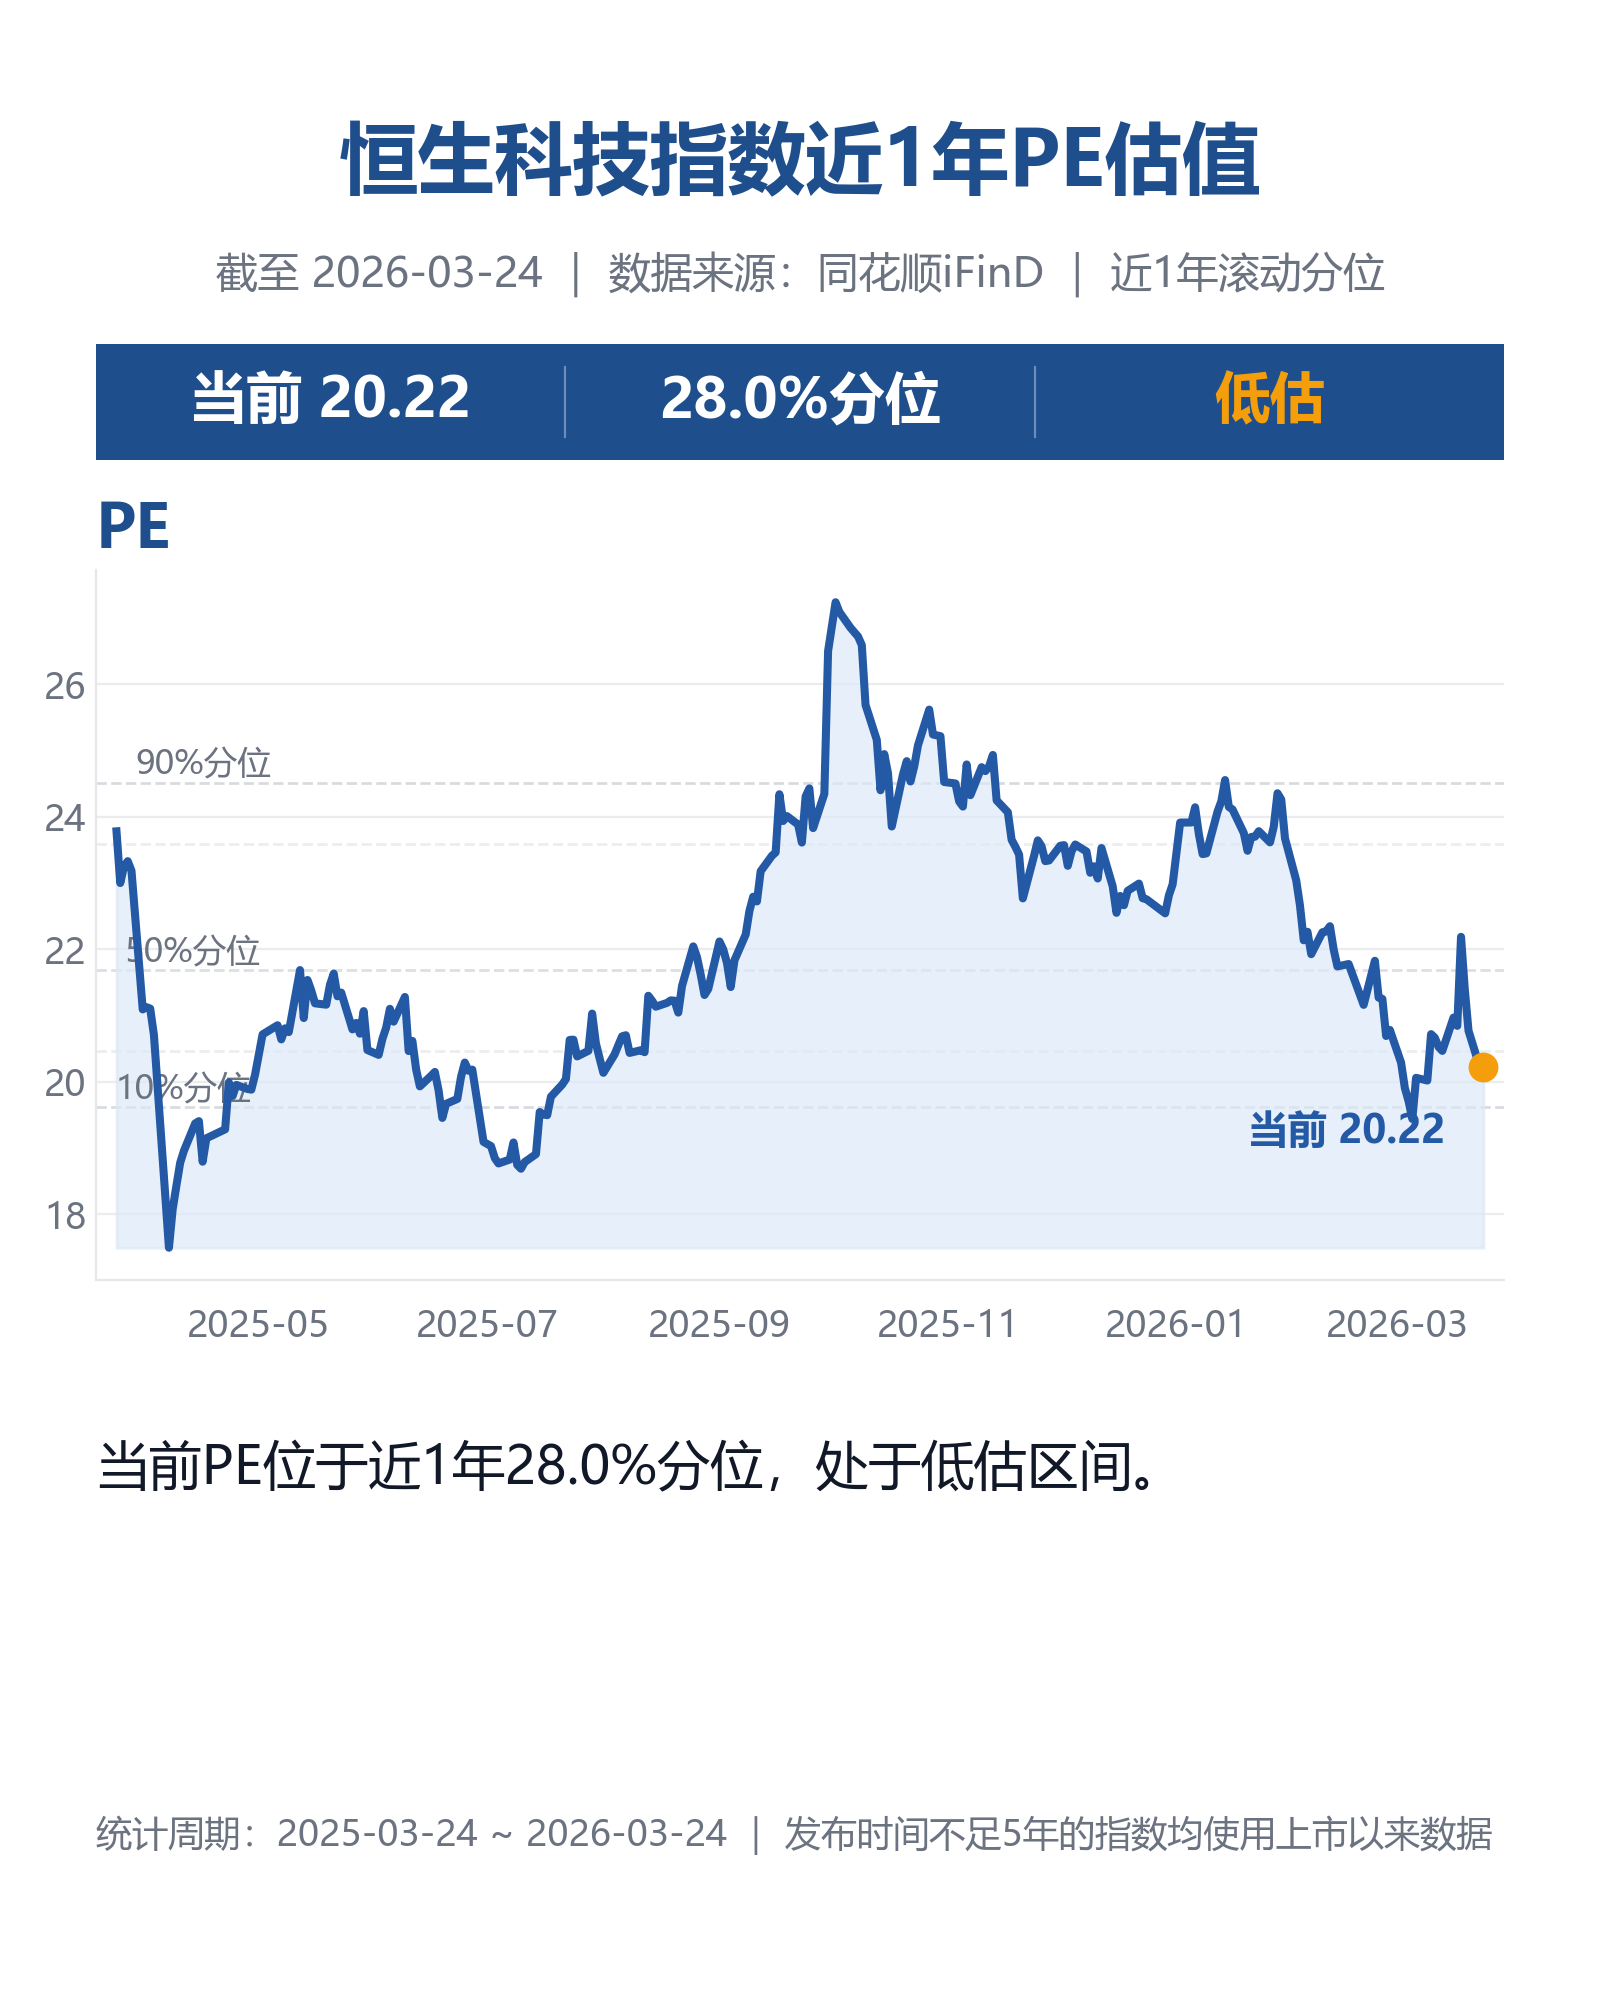
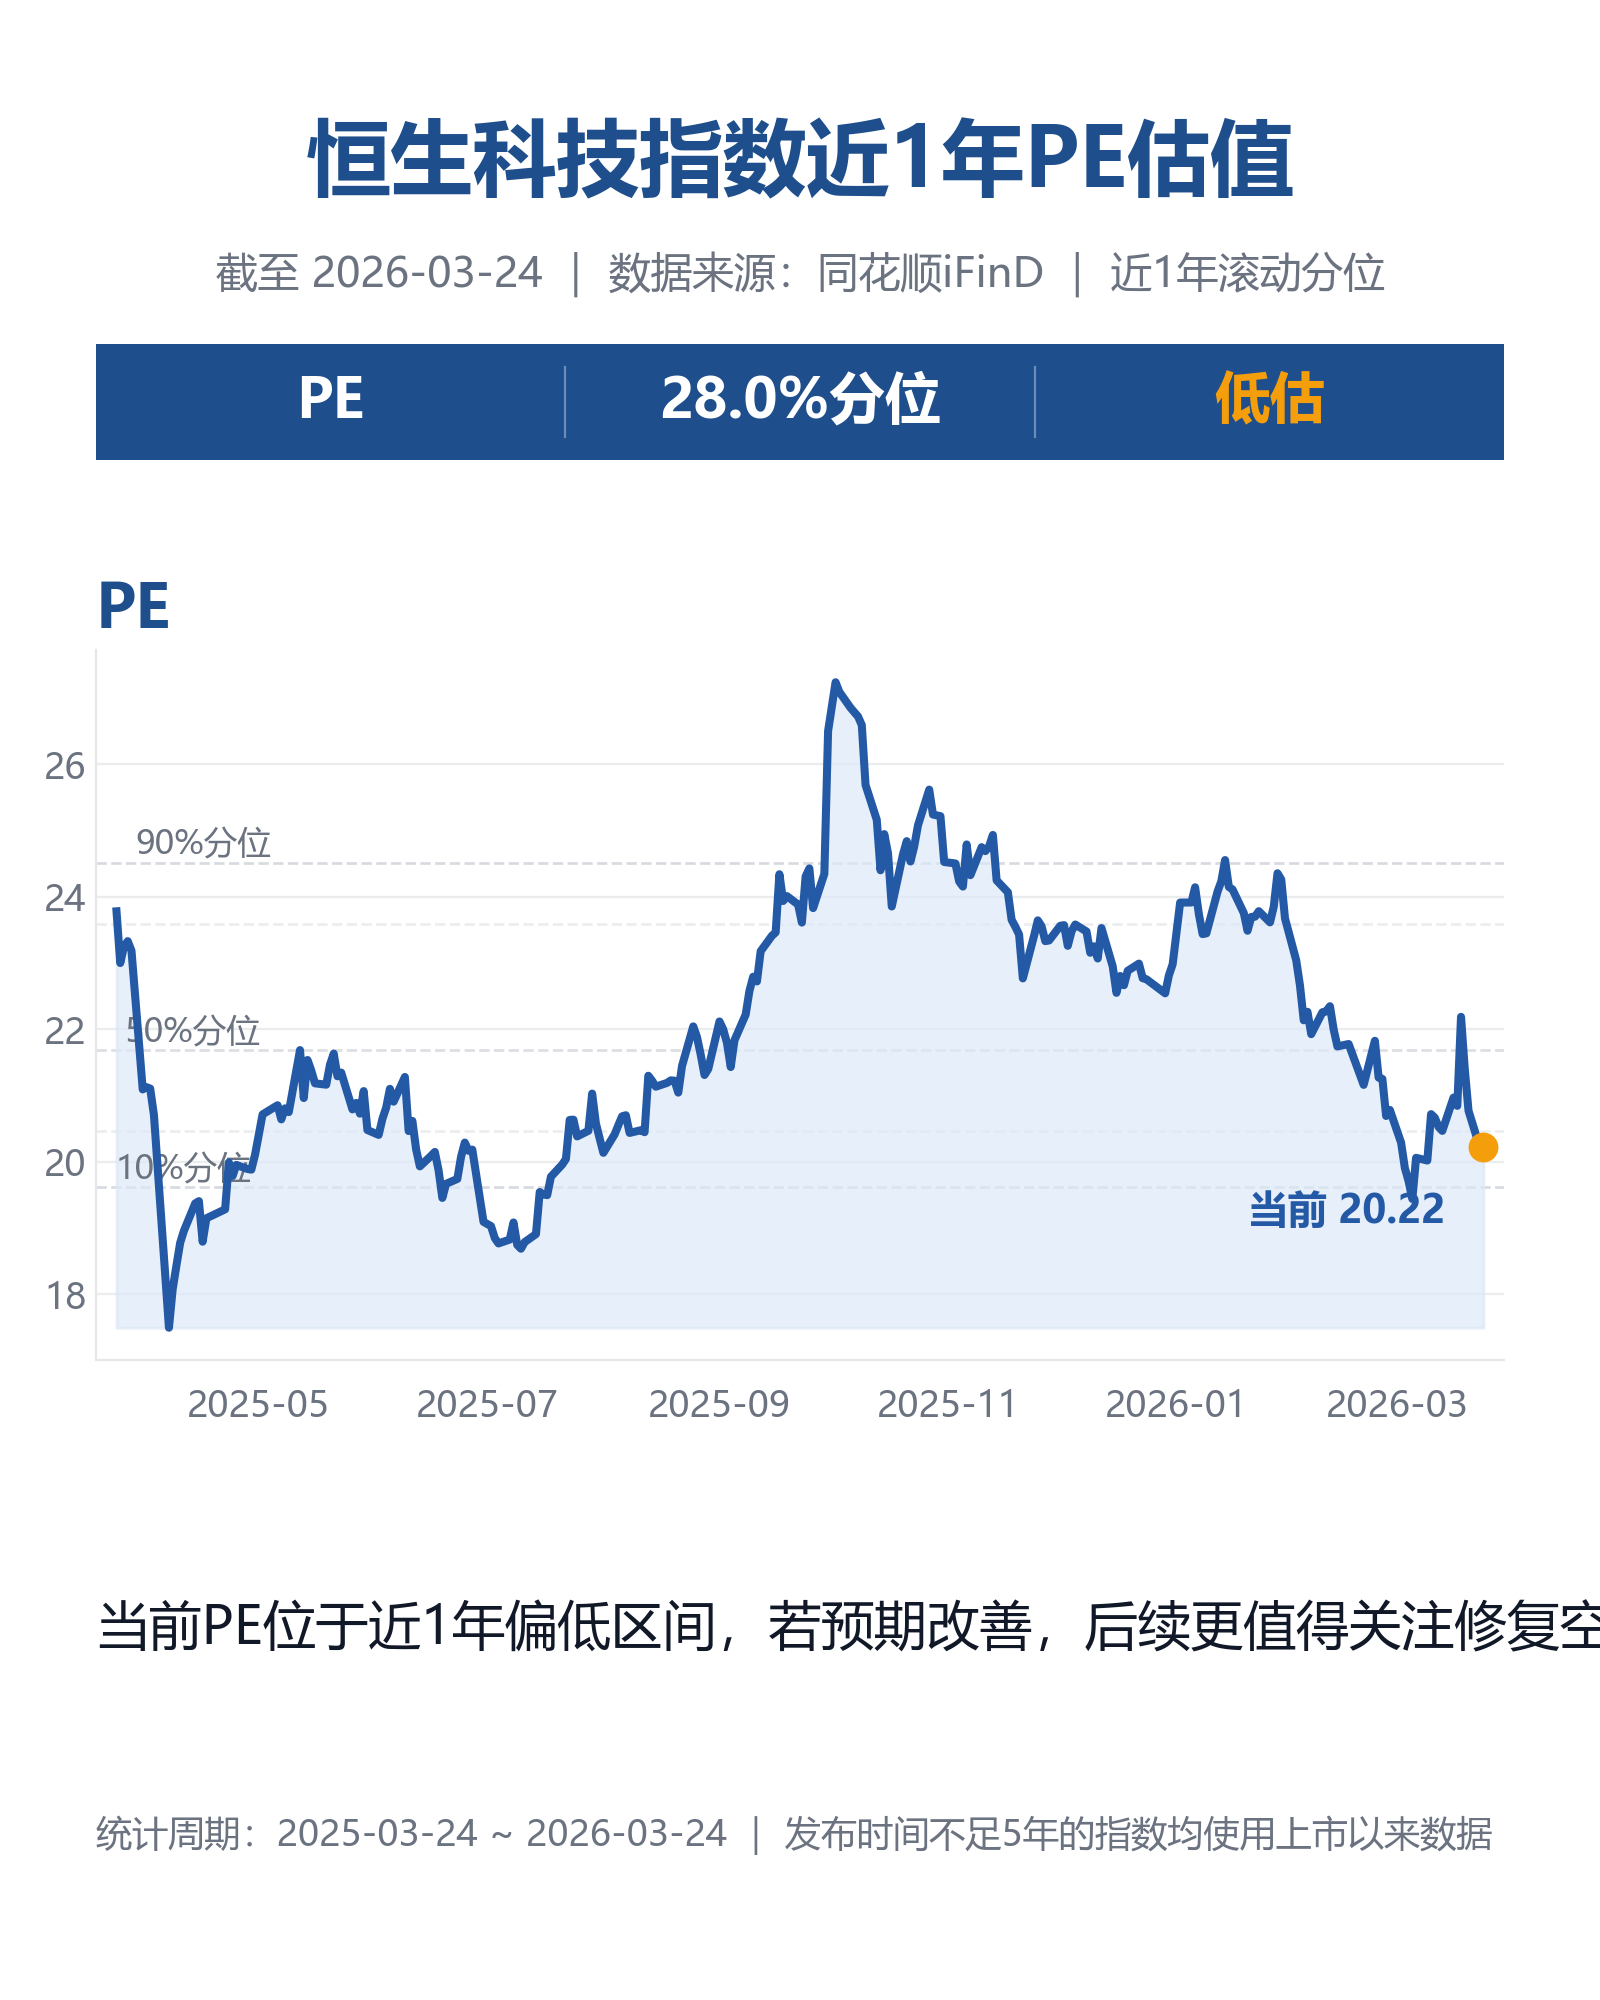
20260324 2210 update

diff --git a/core/exporter.py b/core/exporter.py
@@ -61,7 +61,7 @@ def _render_single_summary_bar(ax, indicator_key: str, indicator_name: str, metr
     _prepare_summary_axis(ax)
 
     if indicator_key in {"pe", "pb"}:
-        segments = [f"当前 {metrics['current_value']:.2f}", f"{metrics['position_pct']:.1f}%分位", plotter.valuation_status(metrics["position_pct"])]
+        segments = [indicator_name, f"{metrics['position_pct']:.1f}%分位", plotter.valuation_status(metrics["position_pct"])]
         accent_indices = {2}
         dividers = [1 / 3, 2 / 3]
         centers = [1 / 6, 0.5, 5 / 6]
@@ -105,29 +105,57 @@ def _render_dual_dividers(fig):
     y_positions = [
         DUAL_REGIONS["summary"][1] + DUAL_REGIONS["summary"][3] / 2,
         (DUAL_REGIONS["pe_chart"][1] + (DUAL_REGIONS["pb_chart"][1] + DUAL_REGIONS["pb_chart"][3])) / 2,
-        (DUAL_REGIONS["pb_chart"][1] + (DUAL_REGIONS["conclusion"][1] + DUAL_REGIONS["conclusion"][3])) / 2,
-        (DUAL_REGIONS["conclusion"][1] + (DUAL_REGIONS["footer"][1] + DUAL_REGIONS["footer"][3])) / 2,
+        (DUAL_REGIONS["pb_chart"][1] + DUAL_REGIONS["footer"][1] + DUAL_REGIONS["footer"][3]) / 2,
     ]
 
     for y in y_positions:
         fig.add_artist(
-            Line2D([left, right], [y, y], transform=fig.transFigure, color=DIVIDER["color"], alpha=DIVIDER["alpha"], linewidth=DIVIDER["line_width"], zorder=0)
+            Line2D(
+                [left, right],
+                [y, y],
+                transform=fig.transFigure,
+                color=DIVIDER["color"],
+                alpha=DIVIDER["alpha"],
+                linewidth=DIVIDER["line_width"],
+                zorder=0,
+            )
         )
+
+
+def _single_close_conclusion(window_label: str, metrics: dict) -> str:
+    position_pct = metrics["position_pct"]
+    if position_pct < 20:
+        lead = f"当前点位已靠近近{window_label}区间下沿，更反映阶段位置偏弱，不直接代表估值高低。"
+    elif position_pct < 40:
+        lead = f"当前点位位于近{window_label}偏低区域，更适合作为阶段位置观察，而不是单独判断便宜或昂贵。"
+    elif position_pct <= 60:
+        lead = f"当前点位处于近{window_label}区间中部，阶段位置相对均衡，更适合继续跟踪方向选择。"
+    elif position_pct <= 80:
+        lead = f"当前点位已回到近{window_label}偏高区域，说明阶段位置已有修复，但位置本身不等同于高估。"
+    else:
+        lead = f"当前点位接近近{window_label}区间上沿，更多体现阶段位置偏强，仍需与估值判断分开看待。"
+
+    tail = f"近{window_label}观察区间约为{metrics['min_value']:.2f}-{metrics['max_value']:.2f}。"
+    return lead + tail
+
+
+def _single_valuation_conclusion(indicator_name: str, window_label: str, metrics: dict) -> str:
+    position_pct = metrics["position_pct"]
+    if position_pct < 10:
+        return f"当前{indicator_name}已进入近{window_label}极低区间，市场定价明显偏谨慎，后续更值得跟踪修复弹性。"
+    if position_pct < 30:
+        return f"当前{indicator_name}位于近{window_label}偏低区间，若预期改善，后续更值得关注修复空间。"
+    if position_pct <= 70:
+        return f"当前{indicator_name}仍处于近{window_label}中低至中性区间，市场定价相对克制，更应观察修复而非扩张。"
+    if position_pct <= 90:
+        return f"当前{indicator_name}已进入近{window_label}偏高区间，后续更需要观察业绩兑现对估值的消化能力。"
+    return f"当前{indicator_name}处于近{window_label}较高区间，后续更应关注预期兑现与估值压缩的平衡。"
 
 
 def _single_conclusion(indicator_key: str, indicator_name: str, metrics: dict, window_label: str) -> str:
     if indicator_key in {"pe", "pb"}:
-        return f"当前{indicator_name}位于近{window_label}{metrics['position_pct']:.1f}%分位，处于{plotter.valuation_status(metrics['position_pct'])}区间。"
-    return (
-        f"当前点位位于近{window_label}区间的{metrics['position_pct']:.1f}%位置，"
-        f"当前观察区间为{metrics['min_value']:.2f}-{metrics['max_value']:.2f}。"
-    )
-
-
-def _dual_conclusion(pe_metrics: dict, pb_metrics: dict) -> str:
-    pe_status = plotter.valuation_status(pe_metrics["position_pct"])
-    pb_status = plotter.valuation_status(pb_metrics["position_pct"])
-    return f"PE处于{pe_status}区间，PB处于{pb_status}区间，整体估值水平以中期分位跟踪为主。"
+        return _single_valuation_conclusion(indicator_name, window_label, metrics)
+    return _single_close_conclusion(window_label, metrics)
 
 
 def _dual_chart_summary_segments(metrics: dict):
@@ -173,9 +201,19 @@ def export_single_indicator(
         chart_title=indicator_name,
         current_label=f"当前 {metrics['current_value']:.2f}",
         with_quantiles=indicator_key in {"pe", "pb"},
+        adaptive_left_margin=True,
     )
 
-    axes["conclusion"].text(0.0, 0.5, _single_conclusion(indicator_key, indicator_name, metrics, window_label), ha="left", va="center", fontsize=FONT_SIZE["conclusion"], color=COLORS["text"])
+    axes["conclusion"].text(
+        0.0,
+        0.5,
+        _single_conclusion(indicator_key, indicator_name, metrics, window_label),
+        ha="left",
+        va="center",
+        fontsize=FONT_SIZE["conclusion"],
+        color=COLORS["text"],
+        wrap=True,
+    )
     _render_footer(axes["footer"], metrics["start_date"], metrics["end_date"])
 
     fig.savefig(output_path, facecolor=fig.get_facecolor())
@@ -227,8 +265,6 @@ def export_pe_pb_combo(
         chart_summary_accent_indices=pb_accent,
     )
 
-    axes["conclusion"].text(0.0, 0.5, _dual_conclusion(pe_metrics, pb_metrics), ha="left", va="center", fontsize=FONT_SIZE["conclusion"], color=COLORS["text"])
-
     start_date = max(pe_metrics["start_date"], pb_metrics["start_date"])
     end_date = min(pe_metrics["end_date"], pb_metrics["end_date"])
     _render_footer(axes["footer"], start_date, end_date)
@@ -236,4 +272,3 @@ def export_pe_pb_combo(
     fig.savefig(output_path, facecolor=fig.get_facecolor())
     plt.close(fig)
     return output_path
-

diff --git a/core/plotter.py b/core/plotter.py
@@ -6,7 +6,7 @@ import math
 import matplotlib.dates as mdates
 import pandas as pd
 
-from core.style import CHART, COLORS, FONT_SIZE, VALUATION_QUANTILES
+from core.style import CHART, COLORS, FONT_SIZE, SINGLE_LAYOUT, VALUATION_QUANTILES
 
 
 def valuation_status(position_pct: float) -> str:
@@ -79,6 +79,36 @@ def _draw_quantile_lines(ax, values: pd.Series):
                 va="bottom",
             )
             label_idx += 1
+
+
+def _adapt_single_chart_left_margin(ax):
+    """Increase the single-chart left gutter only when y tick labels are too close to the page edge."""
+    fig = ax.figure
+    fig.canvas.draw()
+    renderer = fig.canvas.get_renderer()
+
+    labels = [label for label in ax.get_yticklabels() if label.get_text().strip()]
+    if not labels:
+        return
+
+    min_left_px = min(label.get_window_extent(renderer=renderer).x0 for label in labels)
+    fig_width_px = fig.bbox.width
+    target_left_px = fig_width_px * SINGLE_LAYOUT["chart_safe_left"]
+
+    if min_left_px >= target_left_px:
+        return
+
+    shift_px = (target_left_px - min_left_px) + SINGLE_LAYOUT["chart_label_padding_px"]
+    shift_frac = min(shift_px / fig_width_px, SINGLE_LAYOUT["chart_max_left_shift"])
+
+    pos = ax.get_position()
+    max_shift_frac = max(pos.width - SINGLE_LAYOUT["chart_min_width"], 0.0)
+    shift_frac = min(shift_frac, max_shift_frac)
+    if shift_frac <= 0:
+        return
+
+    ax.set_position([pos.x0 + shift_frac, pos.y0, pos.width - shift_frac, pos.height])
+    fig.canvas.draw()
 
 
 def _point_to_segment_distance(px, py, ax, ay, bx, by):
@@ -228,7 +258,17 @@ def _draw_chart_summary(ax, summary_segments=None, accent_indices=None):
 
     for i in range(1, len(positions)):
         divider_x = (positions[i - 1] + positions[i]) / 2
-        ax.text(divider_x, CHART["dual_chart_summary_y"], "|", transform=ax.transAxes, ha="center", va="center", fontsize=FONT_SIZE["dual_chart_summary"], color=COLORS["muted"], clip_on=False)
+        ax.text(
+            divider_x,
+            CHART["dual_chart_summary_y"],
+            "|",
+            transform=ax.transAxes,
+            ha="center",
+            va="center",
+            fontsize=FONT_SIZE["dual_chart_summary"],
+            color=COLORS["muted"],
+            clip_on=False,
+        )
 
     for idx, (xp, text) in enumerate(zip(positions, summary_segments)):
         ax.text(
@@ -253,6 +293,7 @@ def plot_indicator_chart(
     with_quantiles: bool,
     chart_summary_segments=None,
     chart_summary_accent_indices=None,
+    adaptive_left_margin: bool = False,
 ) -> None:
     x = pd.to_datetime(df["date"])
     y = pd.to_numeric(df["value"], errors="coerce")
@@ -265,9 +306,13 @@ def plot_indicator_chart(
 
     ax.fill_between(x, y, y2=float(y.min()), color=COLORS["fill"], alpha=CHART["fill_alpha"], zorder=2)
     ax.plot(x, y, color=COLORS["line"], linewidth=CHART["line_width"], zorder=3)
+    ax.margins(x=CHART["x_margin"])
+
+    if adaptive_left_margin:
+        _adapt_single_chart_left_margin(ax)
+
     _draw_current_marker(ax, x, y, current_label, with_quantiles)
 
     title_pad = CHART["dual_chart_title_pad"] if chart_summary_segments else 8
     ax.set_title(chart_title, loc="left", fontsize=FONT_SIZE["section"], color=COLORS["primary"], weight="bold", pad=title_pad)
     _draw_chart_summary(ax, chart_summary_segments, chart_summary_accent_indices)
-    ax.margins(x=CHART["x_margin"])

diff --git a/core/templates.py b/core/templates.py
@@ -13,8 +13,8 @@ SINGLE_REGIONS = {
     "title": [PAGE["left"], 0.89, PAGE["content_width"], 0.055],
     "meta": [PAGE["left"], 0.848, PAGE["content_width"], 0.03],
     "summary": [PAGE["left"], 0.77, PAGE["content_width"], SUMMARY_BAR["height"]],
-    "chart": [PAGE["left"], 0.36, PAGE["content_width"], 0.355],
-    "conclusion": [PAGE["left"], 0.235, PAGE["content_width"], 0.06],
+    "chart": [PAGE["left"], 0.32, PAGE["content_width"], 0.355],
+    "conclusion": [PAGE["left"], 0.155, PAGE["content_width"], 0.06],
     "footer": [PAGE["left"], 0.065, PAGE["content_width"], 0.035],
 }
 
@@ -24,7 +24,6 @@ DUAL_REGIONS = {
     "summary": [PAGE["left"], DUAL_LAYOUT["top_divider_y"], PAGE["content_width"], DUAL_LAYOUT["top_divider_h"]],
     "pe_chart": [PAGE["left"], DUAL_LAYOUT["pe_chart_y"], PAGE["content_width"], DUAL_LAYOUT["pe_chart_h"]],
     "pb_chart": [PAGE["left"], DUAL_LAYOUT["pb_chart_y"], PAGE["content_width"], DUAL_LAYOUT["pb_chart_h"]],
-    "conclusion": [PAGE["left"], DUAL_LAYOUT["conclusion_y"], PAGE["content_width"], DUAL_LAYOUT["conclusion_h"]],
     "footer": [PAGE["left"], DUAL_LAYOUT["footer_y"], PAGE["content_width"], DUAL_LAYOUT["footer_h"]],
 }
 
@@ -60,7 +59,7 @@ def create_single_template():
 
 
 def create_dual_template():
-    """Create the dual-indicator page skeleton."""
+    """Create the dual-indicator page skeleton without a shared conclusion block."""
     fig = plt.figure(figsize=FIGSIZE, dpi=200, facecolor=COLORS["bg"])
     axes = {
         "title": _create_text_axis(fig, DUAL_REGIONS["title"]),
@@ -68,7 +67,6 @@ def create_dual_template():
         "summary": _create_text_axis(fig, DUAL_REGIONS["summary"]),
         "pe_chart": _create_chart_axis(fig, DUAL_REGIONS["pe_chart"]),
         "pb_chart": _create_chart_axis(fig, DUAL_REGIONS["pb_chart"]),
-        "conclusion": _create_text_axis(fig, DUAL_REGIONS["conclusion"]),
         "footer": _create_text_axis(fig, DUAL_REGIONS["footer"]),
     }
     return fig, axes

diff --git a/core/style.py b/core/style.py
@@ -28,10 +28,10 @@ FONT_FAMILY = [
 ]
 
 FONT_SIZE = {
-    "title": 28,
+    "title": 30,
     "meta": 15,
     "summary_main": 20,
-    "summary_sub": 10,
+    "summary_sub": 16,
     "section": 22,
     "chart_subtitle": 17,
     "current_label": 14,
@@ -54,6 +54,13 @@ SUMMARY_BAR = {
     "divider_width": 0.8,
 }
 
+SINGLE_LAYOUT = {
+    "chart_safe_left": 0.015,
+    "chart_label_padding_px": 12,
+    "chart_max_left_shift": 0.06,
+    "chart_min_width": 0.79,
+}
+
 CHART = {
     "fill_alpha": 0.7,
     "line_width": 2.9,
@@ -67,9 +74,9 @@ CHART = {
         "right_down": (14, -16),
         "left_down": (-14, -16),
     },
-    "dual_chart_summary_y": 1.045,
+    "dual_chart_summary_y": 1.04,
     "dual_chart_summary_gap": 0.27,
-    "dual_chart_title_pad": 22,
+    "dual_chart_title_pad": 20,
     "quantile_label_safe_left": 118,
 }
 
@@ -78,14 +85,12 @@ DUAL_LAYOUT = {
     "title_h": 0.043,
     "meta_y": 0.879,
     "meta_h": 0.022,
-    "top_divider_y": 0.842,
-    "top_divider_h": 0.012,
-    "pe_chart_y": 0.562,
-    "pe_chart_h": 0.250,
-    "pb_chart_y": 0.272,
-    "pb_chart_h": 0.200,
-    "conclusion_y": 0.157,
-    "conclusion_h": 0.05,
+    "top_divider_y": 0.844,
+    "top_divider_h": 0.010,
+    "pe_chart_y": 0.544,
+    "pe_chart_h": 0.238,
+    "pb_chart_y": 0.188,
+    "pb_chart_h": 0.238,
     "footer_y": 0.068,
     "footer_h": 0.028,
 }
